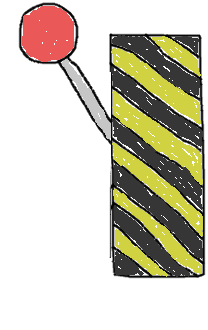
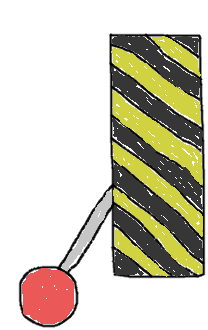
DavidVillalba

Changed region(s): [[0.0865, 0.0, 0.5481, 1.0]]

diff --git a/js/js.js b/js/js.js
@@ -45,13 +45,16 @@ window.onload = function () {
         document.getElementsByClassName("b")[0].style.display = "none";
     }
     //encender/apagar el motor al hacer click en la pantalla
-    /*document.onclick = function () {
-     if (a == g) {
-     motorOn();
-     } else {
-     motorOff();
-     }
-     }*/
+    document.getElementById("palanca").onclick = function () {
+        if (a == g) {
+            motorOn();
+            document.getElementById("power").src = "img/botonOn.png";
+        } else {
+            motorOff();
+            document.getElementById("power").src = "img/botonOff.png";
+        }
+    };
+
     //encender/apagar al apretar/soltar una tecla
     document.onkeydown = function (e) {
         if (document.getElementById("pausa").innerHTML == "Reanudar") {
@@ -120,6 +123,7 @@ function reiniciar() {
     document.getElementById("pausa").innerHTML = "Pausa";
     document.getElementById('menu').style.display = 'block';
     document.getElementById('showm').style.display = 'block';
+    document.getElementById("power").src = "img/botonOff.png";
 }
 
 function pause() {
@@ -186,7 +190,6 @@ function motorOn() {
     //si ha aterrizado o se quedas sin fuel el motor se apaga
     if (aterrizado || c == 0) {
         motorOff();
-        //document.getElementById("pausa").style.display='none';
     } else {
         //el motor da aceleración a la nave
         a = -g;
@@ -219,7 +222,7 @@ function actualizarFuel() {
 function mostrarVictoria() {
     document.getElementById('vEnhorabuena').style.display = 'block'; // Y lo hacemos visible
     document.getElementById('menu').style.display = 'none';
-    document.getElementById('showm').style.display='none';
+    document.getElementById('showm').style.display = 'none';
 }
 function ocultarVictoria() {
     document.getElementById('vEnhorabuena').style.display = 'none';
@@ -229,7 +232,7 @@ function mostrarDerrota() {
     document.getElementById('vDerrota').style.display = 'block'; // Y lo hacemos visible
     document.getElementById('boom').style.display = 'block';
     document.getElementById('menu').style.display = 'none';
-    document.getElementById('showm').style.display='none';
+    document.getElementById('showm').style.display = 'none';
 }
 
 function ocultarDerrota() {

diff --git a/index.html b/index.html
@@ -19,6 +19,7 @@
         <div id="boom">
             <img id="boomimg" src="img/boom.gif" alt="img boom">
         </div>
+        <div id="palanca"><img id="power" src="img/botonOff.png" alt="palanca"></div>
         <div class="a">
             <ul id="menu">
                 <li><a href="#"><span id="pausa">Pausa</span></a></li>

diff --git a/css/m.css b/css/m.css
@@ -155,4 +155,13 @@ h2,h6{
     margin-top: 44px;
 }
 
+#palanca{
+    position: fixed;
+    right: 0px;
+    bottom: 0px;
+    width: 25%;
+}
+#palanca img{
+    width: 100%;
+}
 

diff --git a/css/d.css b/css/d.css
@@ -132,3 +132,7 @@ h2,h6{
     text-align: center; 
     margin-top: 44px;
 }
+
+#palanca{
+    display: none;
+}
